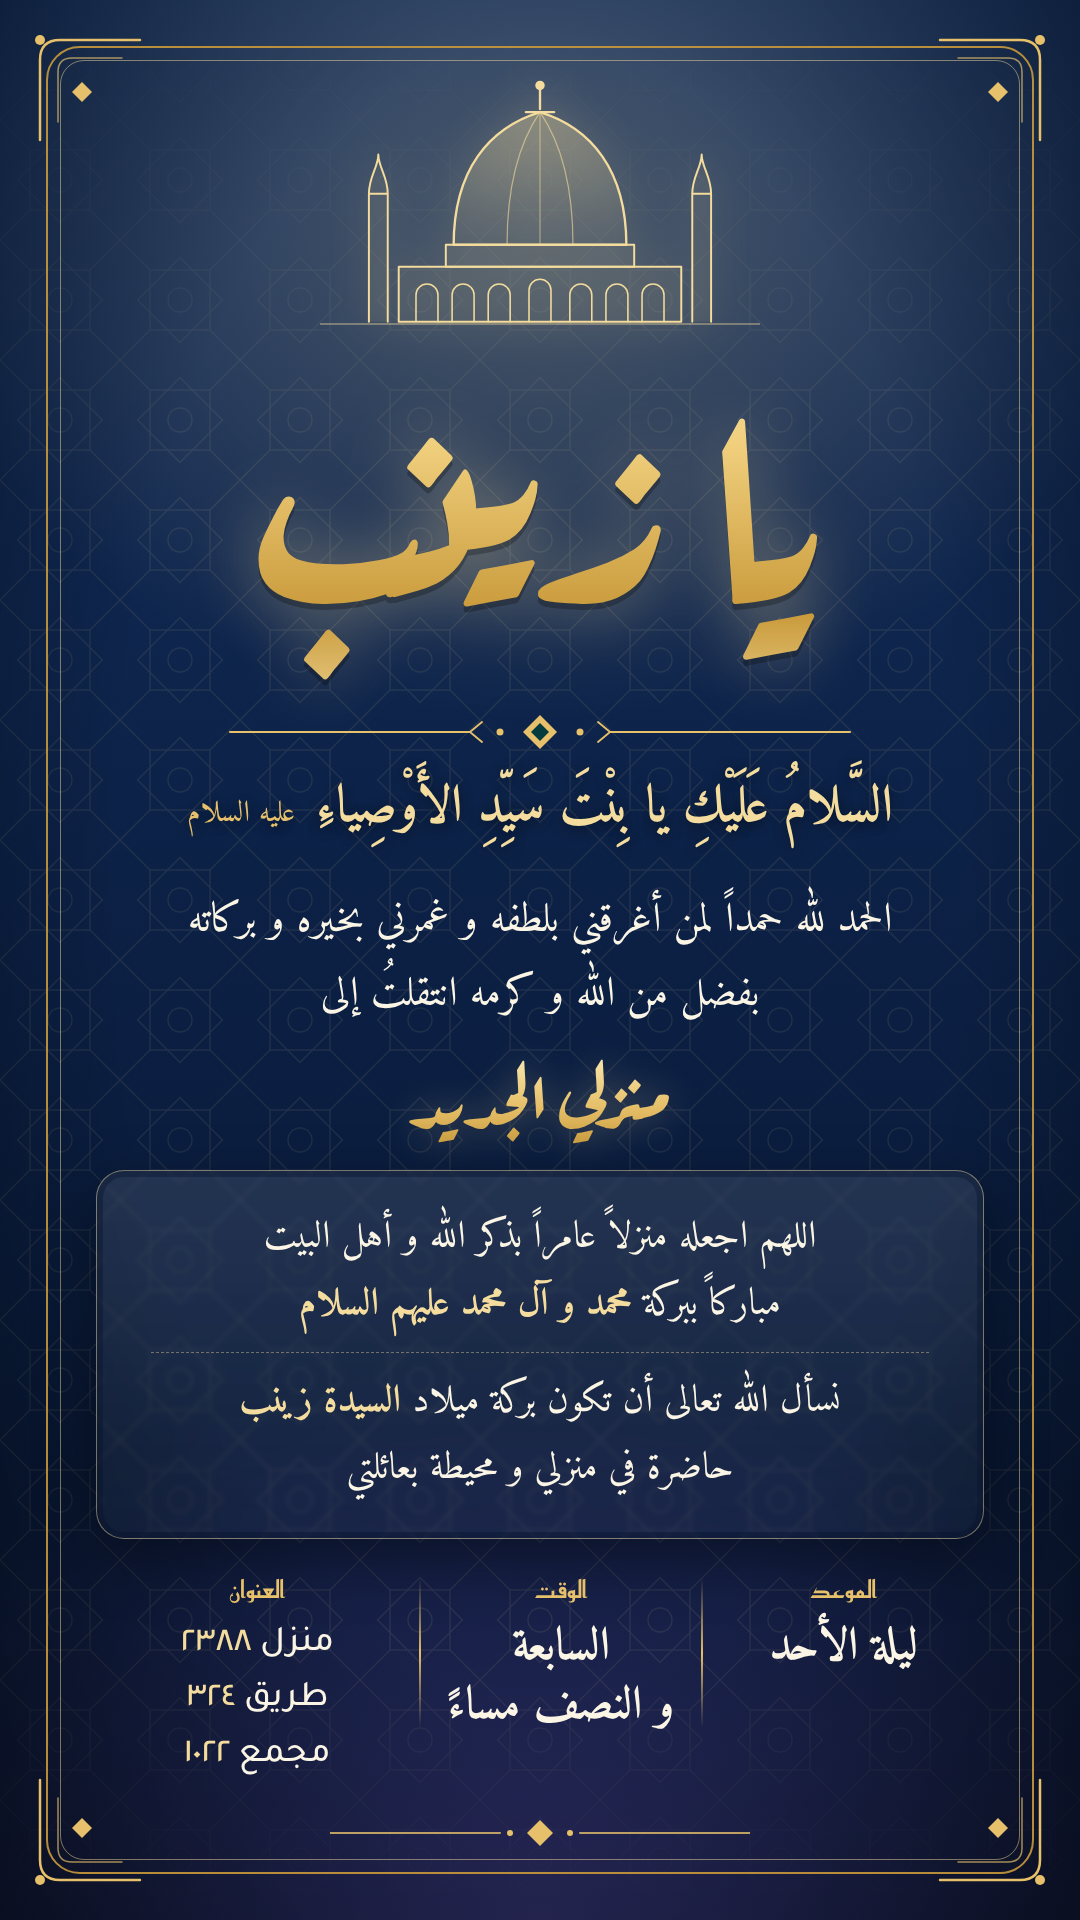
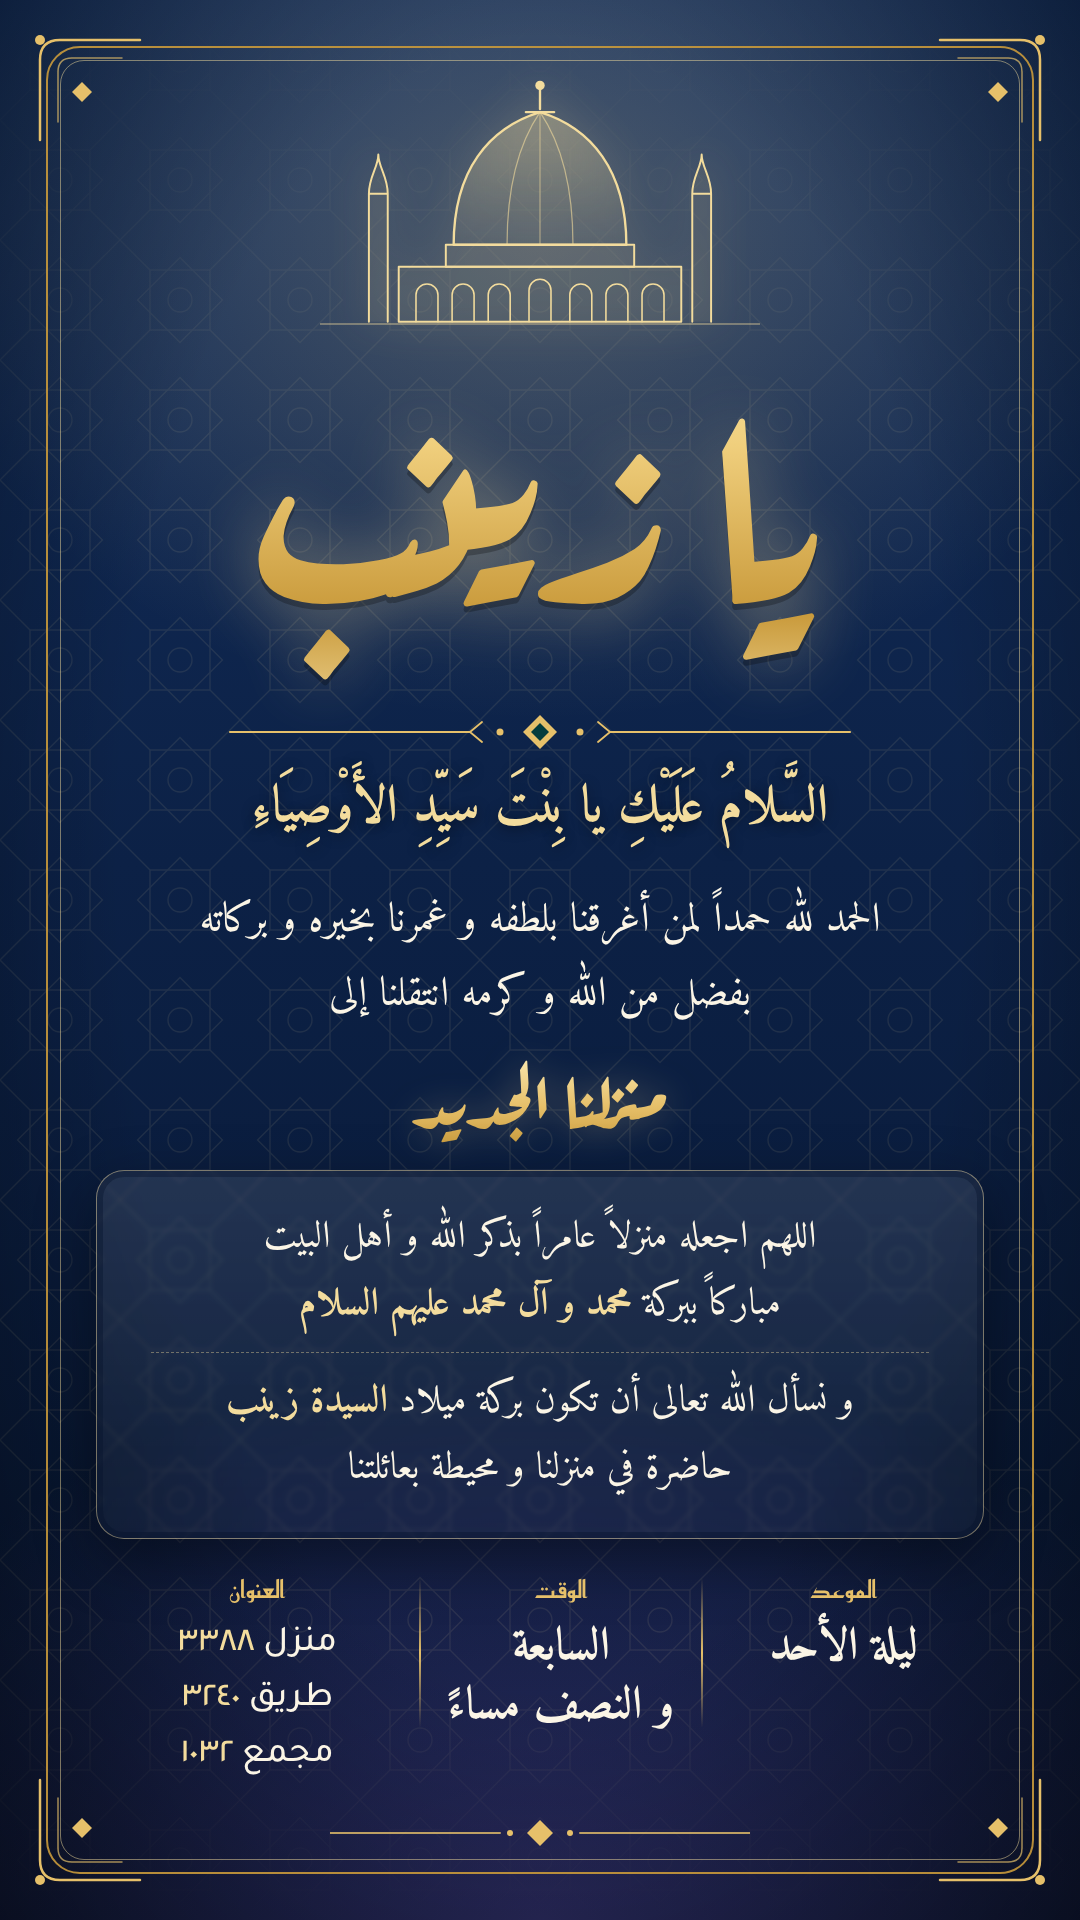
Invitation: final text and corrected address
Claude-Session: https://claude.ai/code/session_01JiVQ2yTnojABN24swoi6ud

diff --git a/designs/housewarming-invite-navy.html b/designs/housewarming-invite-navy.html
@@ -97,7 +97,6 @@ html,body{width:1080px;height:1920px;background:#021f21}
 .det .val.sm{font-size:36px;line-height:1.55;font-family:'Tajawal',sans-serif;font-weight:500}
 .det .val.sm span{color:var(--gold-300)}
 .foot-orn{position:absolute;bottom:72px;left:50%;transform:translateX(-50%);width:420px;height:30px}
-
 .card{background:
  radial-gradient(ellipse 900px 700px at 50% 12%, rgba(243,220,157,.26), transparent 70%),
  radial-gradient(ellipse 1100px 800px at 50% 100%, rgba(120,90,200,.30), transparent 70%),
@@ -162,17 +161,17 @@ html,body{width:1080px;height:1920px;background:#021f21}
     <circle cx="280" cy="20" r="3.5" fill="#e6c06a" stroke="none"/><circle cx="360" cy="20" r="3.5" fill="#e6c06a" stroke="none"/>
   </svg>
 
-  <div class="salam">السَّلامُ عَلَيْكِ يا بِنْتَ سَيِّدِ الأَوْصِياءِ <small>عليه السلام</small></div>
+  <div class="salam">السَّلامُ عَلَيْكِ يا بِنْتَ سَيِّدِ الأَوْصِيَاءِ</div>
 
   <div class="intro">
-    الحمد لله حمداً لمن أغرقني بلطفه و غمرني بخيره و بركاته<br>
-    بفضل من الله و كرمه انتقلتُ إلى<br>
-    <span class="hl">منزلي الجديد</span>
+    الحمد لله حمداً لمن أغرقنا بلطفه و غمرنا بخيره و بركاته<br>
+    بفضل من الله و كرمه انتقلنا إلى<br>
+    <span class="hl">منزلنا الجديد</span>
   </div>
 
   <div class="panel">
     <p>اللهم اجعله منزلاً عامراً بذكر الله و أهل البيت<br>مباركاً ببركة <b>محمد و آل محمد عليهم السلام</b></p>
-    <p>نسأل الله تعالى أن تكون بركة ميلاد <b>السيدة زينب</b><br>حاضرة في منزلي و محيطة بعائلتي</p>
+    <p>و نسأل الله تعالى أن تكون بركة ميلاد <b>السيدة زينب</b><br>حاضرة في منزلنا و محيطة بعائلتنا</p>
   </div>
 
   <div class="details">
@@ -188,7 +187,7 @@ html,body{width:1080px;height:1920px;background:#021f21}
     <div class="sep"></div>
     <div class="det">
       <div class="lab">العنوان</div>
-      <div class="val sm">منزل <span>٢٣٨٨</span><br>طريق <span>٣٢٤</span><br>مجمع <span>١٠٢٢</span></div>
+      <div class="val sm">منزل <span>٣٣٨٨</span><br>طريق <span>٣٢٤٠</span><br>مجمع <span>١٠٣٢</span></div>
     </div>
   </div>
 

diff --git a/designs/housewarming-invite.html b/designs/housewarming-invite.html
@@ -156,17 +156,17 @@ html,body{width:1080px;height:1920px;background:#021f21}
     <circle cx="280" cy="20" r="3.5" fill="#e6c06a" stroke="none"/><circle cx="360" cy="20" r="3.5" fill="#e6c06a" stroke="none"/>
   </svg>
 
-  <div class="salam">السَّلامُ عَلَيْكِ يا بِنْتَ سَيِّدِ الأَوْصِياءِ <small>عليه السلام</small></div>
+  <div class="salam">السَّلامُ عَلَيْكِ يا بِنْتَ سَيِّدِ الأَوْصِيَاءِ</div>
 
   <div class="intro">
-    الحمد لله حمداً لمن أغرقني بلطفه و غمرني بخيره و بركاته<br>
-    بفضل من الله و كرمه انتقلتُ إلى<br>
-    <span class="hl">منزلي الجديد</span>
+    الحمد لله حمداً لمن أغرقنا بلطفه و غمرنا بخيره و بركاته<br>
+    بفضل من الله و كرمه انتقلنا إلى<br>
+    <span class="hl">منزلنا الجديد</span>
   </div>
 
   <div class="panel">
     <p>اللهم اجعله منزلاً عامراً بذكر الله و أهل البيت<br>مباركاً ببركة <b>محمد و آل محمد عليهم السلام</b></p>
-    <p>نسأل الله تعالى أن تكون بركة ميلاد <b>السيدة زينب</b><br>حاضرة في منزلي و محيطة بعائلتي</p>
+    <p>و نسأل الله تعالى أن تكون بركة ميلاد <b>السيدة زينب</b><br>حاضرة في منزلنا و محيطة بعائلتنا</p>
   </div>
 
   <div class="details">
@@ -182,7 +182,7 @@ html,body{width:1080px;height:1920px;background:#021f21}
     <div class="sep"></div>
     <div class="det">
       <div class="lab">العنوان</div>
-      <div class="val sm">منزل <span>٢٣٨٨</span><br>طريق <span>٣٢٤</span><br>مجمع <span>١٠٢٢</span></div>
+      <div class="val sm">منزل <span>٣٣٨٨</span><br>طريق <span>٣٢٤٠</span><br>مجمع <span>١٠٣٢</span></div>
     </div>
   </div>
 
